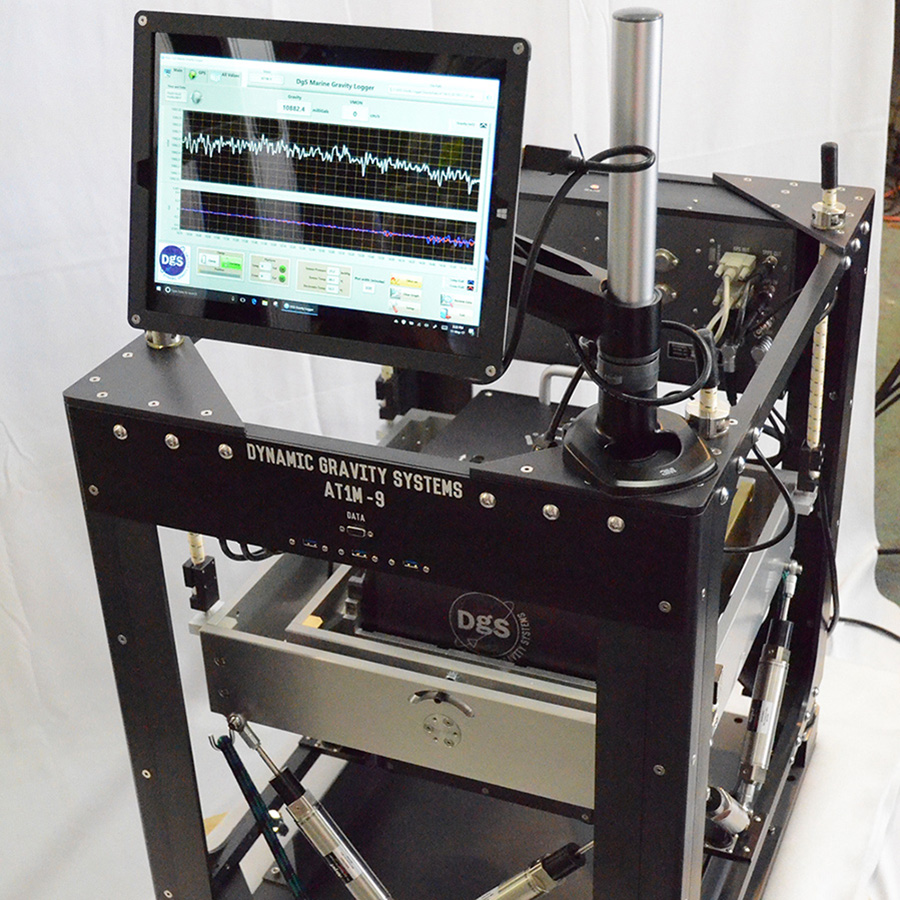
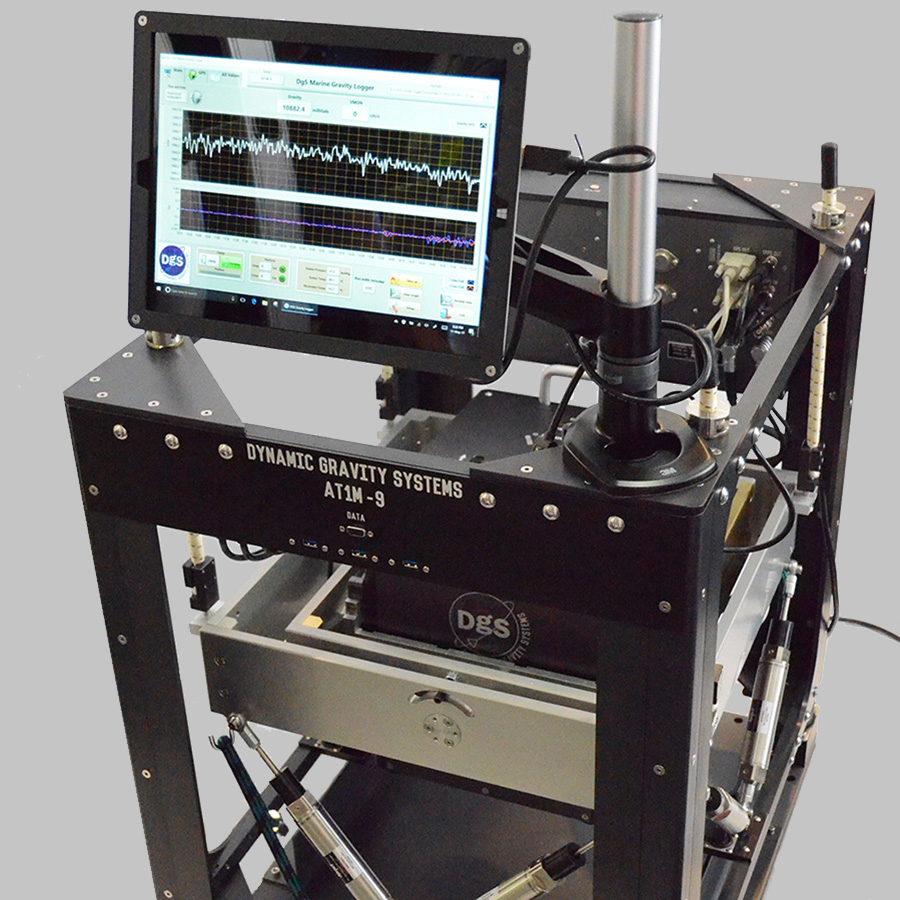
Update Contact page, Footer links, merge about into contact page.
Added new banner image, minor adjustment to news post format.
Contact page cleaned up, link added back to header navbar.
Cleaned up Marine Meter product image background.

diff --git a/_pages/03_contact.html b/_pages/03_contact.html
@@ -2,10 +2,10 @@
 layout: default
 title: Contact
 permalink: /contact/
-active: false
+active: true
 ---
 
-<div class="container">
+<div id="contacts" class="container">
     <div class="row">
         <h3 class="center-align blue-text">{{ page.title }}</h3>
     </div>
@@ -15,34 +15,36 @@ active: false
         </div>
     </div>
     <div class="row">
-        <ul class="collection col s12">
-            <li class="collection-item avatar">
-                <img src="/assets/logos/DGS-Logo.png" class="circle">
-                <span class="title dgs-heavy">Nigel Brady</span>
-                <p>Director of Operations and Customer Service<br><br>
-                    nigel@dynamicgravitysystems.com<br>
-                    +1(303) 815-6376<br>
-                    Skype: nige5128
-                </p>
-                <div class="secondary-content">
-                    <a href="mailto:nigel@dynamicgravitysystems.com"><i class="material-icons">email</i></a><br>
-                    <a href="tel:+13038156376"><i class="material-icons">phone</i></a>
+        <div class="col l6 m12 s12">
+            <div class="card">
+                <div class="card-content">
+                    <span class="card-title">
+                        <img src="/assets/logos/DGS-Logo.png" class="circle right" height="50px" alt="Dynamic Gravity Systems">
+                        Nigel Brady
+                    </span>
+                    <p>Director of Operations and Customer Service<br><br>
+                        <a href="mailto:nigel@dynamicgravitysystems.com">nigel@dynamicgravitysystems.com</a><br>
+                        +1 (303) 815-6376<br>
+                        Skype: nige5128
+                    </p>
                 </div>
-
-            </li>
-            <li class="collection-item avatar">
-                <img src="/assets/avatars/placeholder.png" class="circle">
-                <span class="title dgs-heavy">Daniel Aliod</span>
-                <p>President & Chief Scientist<br><br>
-                    daniel@dynamicgravitysystems.com<br>
-                    +1 (303) 941-5639
-                </p>
-                <div class="secondary-content">
-                    <a href="mailto:daniel@dynamicgravitysystems.com"><i class="material-icons">email</i></a><br>
-                    <a href="tel:+13039415639"><i class="material-icons">phone</i></a>
+            </div>
+        </div>
+        <div class="col l6 m12 s12">
+            <div class="card">
+                <div class="card-content">
+                    <span class="card-title">
+                        <img src="/assets/logos/DGS-Logo.png" class="circle right" height="50px" alt="Dynamic Gravity Systems">
+                        Daniel Aliod
+                    </span>
+                    <p>President & Chief Scientist<br><br>
+                        <a href="mailto:daniel@dynamicgravitysystems.com">daniel@dynamicgravitysystems.com</a><br />
+                        +1 (303) 941-5639
+                    </p>
                 </div>
-            </li>
-
-        </ul>
+            </div>
+        </div>
     </div>
 </div>
+
+{% include about.html %}

diff --git a/_includes/footer.html b/_includes/footer.html
@@ -6,7 +6,8 @@
             <div class="col s6 m2"><span class="dgs-light">Products</span></div>
             <div class="col s6 m2"><span class="dgs-light">Services</span></div>
             <div class="col s6 m3"><span class="dgs-light hide-on-small-only">Projects</span></div>
-            <div class="col s6 m3 hide-on-small-only"><span class="dgs-light"></span></div>
+            <div class="col s6 m3"><span class="dgs-light hide-on-small-only"><a class="white-text" href="/contact/">Contact</a></span></div>
+            <!--<div class="col s6 m3 hide-on-small-only"><span class="dgs-light"></span></div>-->
         </div>
         <div class="row">
             <div class="col s6 m2">
@@ -34,8 +35,7 @@
                 </ul>
             </div>
             <div class="col s6 m5 l3">
-                <span class="dgs-light show-on-small"><a class="white-text" href="/about/">About</a></span><br>
-                <span class="dgs-light white-text"><a class="white-text" href="/contact/">Contact</a></span>
+                <span class="dgs-light white-text show-on-small hide-on-med-and-up"><a class="white-text" href="/contact/">Contact</a></span>
                 <ul>
                     <li>
                         <a href="#email-modal" class="btn-floating blue pulse modal-trigger email-trigger" onclick="setSubject('')"><i class="material-icons white-text">email</i></a>
@@ -57,8 +57,11 @@
             <span class="left" style="font-size: 0.8em;">
                 Email: <a href="mailto:info@dynamicgravitysystems.com">info@dynamicgravitysystems.com</a>
             </span>
+            <span class="left" style="font-size: 0.8em; margin-left: 15px">
+                Tel: +1 (303) 815-6376
+            </span>
             <span class="right" style="font-size: 0.8em;">
-                Copyright &copy; 2016-2018 Dynamic Gravity Systems LLC.<br>
+                Copyright &copy; 2016-2019 Dynamic Gravity Systems LLC.<br>
             </span>
         </div>
     </div>

diff --git a/_includes/sidenav.html b/_includes/sidenav.html
@@ -14,9 +14,9 @@
     <li><a href="{{ page.permalink }}" class="blue-text" style="font-size: 1.2em">{{ page.title }}</a></li>
     {%- endif -%}
     {%- endfor -%}
-    <li><a href="/contact/" class="blue-text" name="Contacts" style="font-size: 1.2em">Contacts</a></li>
+    <!--<li><a href="/contact/" class="blue-text" name="Contacts" style="font-size: 1.2em">Contacts</a></li>-->
     <li class="center large">Contact Us</li>
     <li><a href="mailto: info@dynamicgravitysystems.com">info@dynamicgravitysystems.com</a></li>
     <li><a href="tel: +13038156376">+1 (303) 815-6376</a></li>
-    <li class="center"><a class="blue-text" href="/about/" name="About DgS">About</a></li>
+    <li class="center"><a class="blue-text" href="/contact/#about" name="About DgS">About</a></li>
 </ul>

diff --git a/_includes/about.html b/_includes/about.html
@@ -1,13 +1,7 @@
----
-layout: default
-title: About DgS
-permalink: /about/
-active: false
----
-
-<div class="container">
+<div id="about" class="container">
+    <br><br>
     <div class="row container">
-        <h3 class="center-align blue-text">{{ page.title }}</h3>
+        <h3 class="center-align blue-text">About DgS</h3>
         <p>Dynamic Gravity Systems is a privately owned company specializing in the manufacture of Advanced
             Technology Gravity systems for Airborne, Marine, Land, and Underwater exploration/survey.
         </p>

diff --git a/_layouts/post.html b/_layouts/post.html
@@ -28,7 +28,7 @@
                     </div>
                     <div class="col s12 m8">
                         {% if page.image %}
-                        <img class="responsive-img rounded" src="{{ page.image | prepend: '/assets/news/' }}">
+                        <img class="responsive-img rounded right" src="{{ page.image | prepend: '/assets/news/' }}" style="max-width: 400px">
                         {% endif %}
                     </div>
                 </div>

diff --git a/_includes/base_banner.html b/_includes/base_banner.html
@@ -9,7 +9,7 @@
         elem.style.backgroundImage = `url(/assets/banner/banner${index}.jpg)`;
     }
     function randomImage(){
-        let index = Math.floor(Math.random() * 5) + 1;
+        let index = Math.floor(Math.random() * 6) + 1;
         if(cindex === index){
             return randomImage();
         } else {
